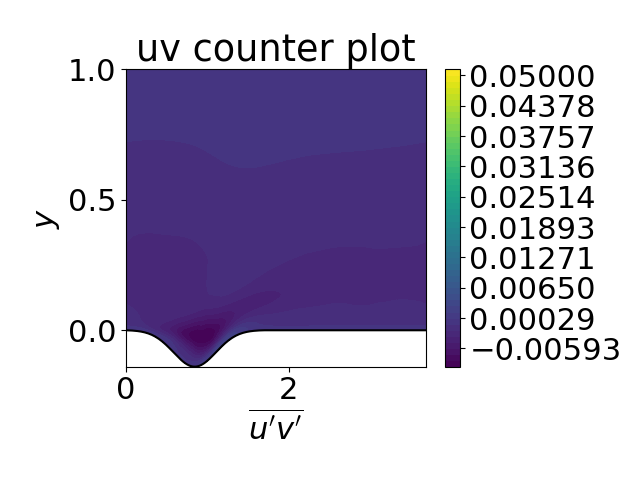
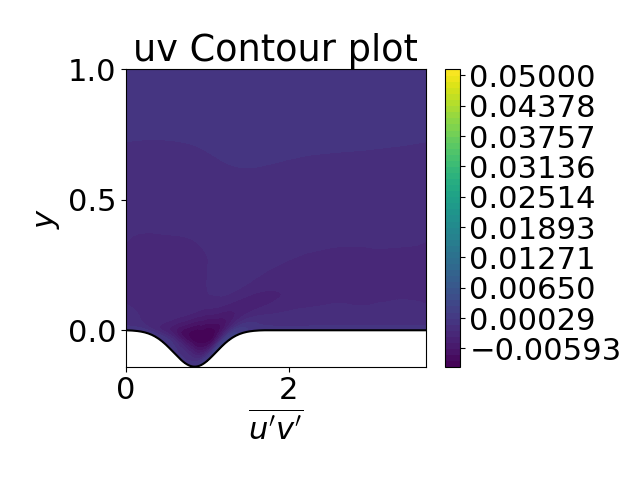
Final fix?

Changed region(s): [[0.1875, 0.0625, 0.6562, 0.1562]]

diff --git a/Final GUI.py b/Final GUI.py
@@ -141,7 +141,7 @@ def plot_pressure():
     plt.contourf(x2d,y2d,p2d, 50)
     plt.plot(x2d[:,0],y2d[:,0], 'k-')
     plt.xlabel("$x$"); plt.ylabel("$y$")
-    plt.title("contour pressure plot")
+    plt.title("Contour pressure plot")
     plt.colorbar()
     plt.tight_layout()
     plt.show() 
@@ -164,7 +164,7 @@ def plot_uu_stress():
     plt.plot(x2d[:,0],y2d[:,0], 'k-')
     plt.xlabel('$\overline{u^\prime u^\prime}$')
     plt.ylabel("$y$")
-    plt.title("uu counter plot")
+    plt.title("uu Contour plot")
     plt.colorbar()
     plt.tight_layout()
     plt.show() 
@@ -176,7 +176,7 @@ def plot_vv_stress():
     plt.plot(x2d[:,0],y2d[:,0], 'k-')
     plt.xlabel('$\overline{v^\prime v^\prime}$')
     plt.ylabel("$y$")
-    plt.title("vv counter plot")
+    plt.title("vv Contour plot")
     plt.colorbar()
     plt.tight_layout()
     plt.show() 
@@ -188,7 +188,7 @@ def plot_uv_Stress():
     plt.plot(x2d[:,0],y2d[:,0], 'k-')
     plt.xlabel('$\overline{u^\prime v^\prime}$')
     plt.ylabel("$y$")
-    plt.title("uv counter plot")
+    plt.title("uv Contour plot")
     plt.colorbar()
     plt.tight_layout()
     plt.show() 
@@ -203,7 +203,7 @@ def plot_1_close():
     plt.plot(uv2d[i,:],y2d[i,:],'r-', label='$\overline{u^\prime v^\prime}$')
     plt.plot(vv2d[i,:],y2d[i,:],'k-', label='$\overline{v^{\prime 2}}$')
     plt.xlabel('$\overline{u_i^\prime u_j^\prime}$')
-    plt.ylabel('y/H')
+    plt.ylabel('y')
     plt.title('1.1 (x = 0.10) vertical line', fontsize=20)
     plt.legend()
     plt.tight_layout()
@@ -217,7 +217,7 @@ def plot_1_turb():
     plt.plot(uv2d[i,:],y2d[i,:],'r-', label='$\overline{u^\prime v^\prime}$')
     plt.plot(vv2d[i,:],y2d[i,:],'k-', label='$\overline{v^{\prime 2}}$')
     plt.xlabel('$\overline{u_i^\prime u_j^\prime}$')
-    plt.ylabel('y/H')
+    plt.ylabel('y')
     plt.title('1.1 (x = 1.07) vertical line', fontsize=20)
     plt.legend()
     plt.tight_layout()
@@ -334,7 +334,7 @@ def plot_2_turb_x_zoom():
     plt.plot(-nu*du2dy2[i,:],y2d[i,:],'k-',label='6')
     plt.plot(duvdy[i,:],y2d[i,:],'c-',   label='7')
     plt.xlabel('Term size (Eq. R.1)')
-    plt.ylabel('y/H')
+    plt.ylabel('y')
     plt.title('1.2 $v_x$-direction (x = 1.07) vertical line', fontsize=20)
     plt.axis([-0.3, 0.25, np.min(y2d), 0.1])
     plt.legend()
@@ -352,7 +352,7 @@ def plot_2_turb_y_zoom():
     plt.plot(-nu*dv2dy2[i,:],y2d[i,:],'k-',label='6')
     plt.plot(dvvdy[i,:],y2d[i,:],'c-',   label='7')
     plt.xlabel('Term size $v_y$-direction (Eq. R.1)')
-    plt.ylabel('y/H')
+    plt.ylabel('y')
     plt.title('1.2 (x = 1.07) vertical line', fontsize=20)
     plt.axis([-0.45, 0.28, np.min(y2d), 0.1])
     plt.legend()
@@ -427,7 +427,7 @@ dp_norm = np.sqrt(np.multiply(dpdx,dpdx) + np.multiply(dpdy,dpdy))
     # Pressure
 def plot_4_pressure_grad():    
     plt.figure("Figure 1.4c")
-    k=10# plot every
+    k=12# plot every
     plt.quiver(x2d[::k,::k], y2d[::k,::k], -dpdx[::k,::k], -dpdy[::k,::k], width = 0.007)
     plt.plot(x2d[:,0],y2d[:,0], 'k-')
     plt.xlabel("$x$"); plt.ylabel("$y$")
@@ -458,24 +458,24 @@ def plot_4_Visc_D_y():
 # ---- A_1.5)
 
 # Production term
-P_k = np.zeros((ni,nj,6))
+P_k = np.zeros((ni,nj,7))
 
 P_k[:,:,0] = - np.multiply(uu2d,dudx)
 P_k[:,:,1] = - np.multiply(uv2d,dudy)
 P_k[:,:,2] = - np.multiply(uv2d,dvdx)
 P_k[:,:,3] = - np.multiply(vv2d,dvdy)
-P_k[:,:,4] = P_k[:,:,0] + P_k[:,:,1] + P_k[:,:,2] + P_k[:,:,3]
-P_k[:,:,5] = P_k[:,:,0] + P_k[:,:,3]
+P_k[:,:,4] = P_k[:,:,0] + P_k[:,:,3]
+P_k[:,:,5] = P_k[:,:,1] + P_k[:,:,2]
+P_k[:,:,6] = P_k[:,:,0] + P_k[:,:,1] + P_k[:,:,2] + P_k[:,:,3]
+
  
 # Close to inlet
 def plot_5_k_close():
     plt.figure("Figure 1.5a")
     i=5
-    plt.plot(P_k[i,:,0],y2d[i,:],'g-',label='$P_{11}$')
-    plt.plot(P_k[i,:,1],y2d[i,:],'b-',label='$P_{12}$')
-    plt.plot(P_k[i,:,2],y2d[i,:],'r-',label='$P_{21}$')
-    plt.plot(P_k[i,:,3],y2d[i,:],'y-',label='$P_{22}$')
-    plt.plot(P_k[i,:,4],y2d[i,:],'y-',label='Total')
+    plt.plot(P_k[i,:,4],y2d[i,:],'g-',label='$P_{normal}$')
+    plt.plot(P_k[i,:,5],y2d[i,:],'b-',label='$P_{shear}$')
+    plt.plot(P_k[i,:,6],y2d[i,:],'y-',label='Total')
     plt.xlabel('Turbulent Energy Production')
     plt.ylabel('y/H')
     plt.title('1.5) x = 0.10 vertical line', fontsize=20)
@@ -487,11 +487,9 @@ def plot_5_k_close():
 def plot_5_k_turb():
     plt.figure("Figure 1.5b")
     i=50
-    plt.plot(P_k[i,:,0],y2d[i,:],'g-',label='$P_{11}$')
-    plt.plot(P_k[i,:,1],y2d[i,:],'b-',label='$P_{12}$')
-    plt.plot(P_k[i,:,2],y2d[i,:],'r-',label='$P_{21}$')
-    plt.plot(P_k[i,:,3],y2d[i,:],'y-',label='$P_{22}$')
-    plt.plot(P_k[i,:,4],y2d[i,:],'k-',label='Total')
+    plt.plot(P_k[i,:,4],y2d[i,:],'g-',label='$P_{normal}$')
+    plt.plot(P_k[i,:,5],y2d[i,:],'b-',label='$P_{shear}$')
+    plt.plot(P_k[i,:,6],y2d[i,:],'y-',label='Total')
     plt.xlabel('Turbulent Energy Production')
     plt.ylabel('y/H')
     plt.title('1.5) x = 1.07 vertical line', fontsize=20)
@@ -505,7 +503,7 @@ def plot_5_k_turb():
 def plot_6_prod_close():    
     plt.figure("Figure 1.6a")
     i=5
-    plt.plot(P_k[i,:,4],y2d[i,:],'y-',label='Production')
+    plt.plot(P_k[i,:,6],y2d[i,:],'y-',label='Production')
     plt.plot(diss_RANS_2d[i,:],y2d[i,:],'k-',label='Dissipation')
     plt.xlabel('Turbulent Energy')
     plt.ylabel('y')
@@ -518,7 +516,7 @@ def plot_6_prod_close():
 def plot_6_prod_turb():    
     plt.figure("Figure 1.6b")
     i=50
-    plt.plot(P_k[i,:,4],y2d[i,:],'y-',label='Production')
+    plt.plot(P_k[i,:,6],y2d[i,:],'y-',label='Production')
     plt.plot(diss_RANS_2d[i,:],y2d[i,:],'k-',label='Dissipation')
     plt.xlabel('Turbulent Energy')
     plt.ylabel('y')
@@ -528,8 +526,9 @@ def plot_6_prod_turb():
     plt.tight_layout()
 
 # ---- A_1.7)
-i=50
+i=5
 Cmu = 0.09; C1 = 1.5; C2 = 0.6; C1w = 0.5; C2w = 0.3; sigma_k = 1; rho = 1;
+nu_t = Cmu*np.divide(np.multiply(k_RANS_2d, k_RANS_2d), diss_RANS_2d)
 
 # Convection Term
 # 11
@@ -571,35 +570,35 @@ P22 = -2*(np.multiply(uv2d, dvdx) + np.multiply(vv2d, dvdy))
 
 # Pressure-Strain
 ## 11
-Phi121 = -C1*rho*np.multiply(np.divide(diss_RANS_2d,k_RANS_2d), uu2d-(2/3)*k_RANS_2d)
+Phi111 = -C1*rho*np.multiply(np.divide(diss_RANS_2d,k_RANS_2d), uu2d-(2/3)*k_RANS_2d)
 #
-Phi122 = -C2*rho*(P11-(2/3)*P_k[i,:,5])
+Phi112 = -C2*rho*(P11-(2/3)*P_k[i,:,6])
 
 ## 12
-Phi111 = -C1*rho*np.multiply(np.divide(diss_RANS_2d,k_RANS_2d), uv2d)
+Phi121 = -C1*rho*np.multiply(np.divide(diss_RANS_2d,k_RANS_2d), uv2d)
 #
-Phi112 = -C2*rho*P12
+Phi122 = -C2*rho*P12
 
 ## 22
 Phi221 = -C1*rho*np.multiply(np.divide(diss_RANS_2d,k_RANS_2d), vv2d-(2/3)*k_RANS_2d)
 #
-Phi222 = -C2*rho*(P22-(2/3)*P_k[i,:,5])
+Phi222 = -C2*rho*(P22-(2/3)*P_k[i,:,6])
 
 Phi11  = Phi111 + Phi112
 Phi12  = Phi121 + Phi122
 Phi22  = Phi221 + Phi222
 
 ## Turbulent Diffusion
-nu_t = Cmu*np.divide(np.multiply(k_RANS_2d, k_RANS_2d), diss_RANS_2d)
+
 # 11 
-D111, empty = dphidx_dy(xf2d,yf2d, np.multiply(vist_RANS_2d/sigma_k, duudx))
-empty, D112 = dphidx_dy(xf2d,yf2d, np.multiply(vist_RANS_2d/sigma_k, duudy))
+D111, empty = dphidx_dy(xf2d,yf2d, np.multiply(nu_t/sigma_k, duudx))
+empty, D112 = dphidx_dy(xf2d,yf2d, np.multiply(nu_t/sigma_k, duudy))
 # 12
-D121, empty = dphidx_dy(xf2d,yf2d, np.multiply(vist_RANS_2d/sigma_k, duvdx))
-empty, D122 = dphidx_dy(xf2d,yf2d, np.multiply(vist_RANS_2d/sigma_k, duvdy))
+D121, empty = dphidx_dy(xf2d,yf2d, np.multiply(nu_t/sigma_k, duvdx))
+empty, D122 = dphidx_dy(xf2d,yf2d, np.multiply(nu_t/sigma_k, duvdy))
 # 22 
-D221, empty = dphidx_dy(xf2d,yf2d, np.multiply(vist_RANS_2d/sigma_k, dvvdx))
-empty, D222 = dphidx_dy(xf2d,yf2d, np.multiply(vist_RANS_2d/sigma_k, dvvdy))
+D221, empty = dphidx_dy(xf2d,yf2d, np.multiply(nu_t/sigma_k, dvvdx))
+empty, D222 = dphidx_dy(xf2d,yf2d, np.multiply(nu_t/sigma_k, dvvdy))
 
 D11t = D111 + D112
 D12t = D121 + D122
@@ -617,20 +616,20 @@ Eps22 = (2/3)*diss_RANS_2d
 
 ## west face
 # parallell vector
-sx_w=np.diff(x2d,axis=1) 
-sy_w=np.diff(y2d,axis=1) 
+sx_w=np.diff(x2d,axis=0) 
+sy_w=np.diff(y2d,axis=0) 
    
-# duplicate last column and put it at the end
-sx_w=np.insert(sx_w,-1,sx_w[:,-1],axis=1)
-sy_w=np.insert(sy_w,-1,sy_w[:,-1],axis=1)
+# duplicate first column and put it at the start, so west face is east face instead
+sx_w=np.insert(sx_w,0,sx_w[0,:],axis=0)
+sy_w=np.insert(sy_w,0,sy_w[0,:],axis=0)
 
 # normalize
-d=np.sqrt(sx_w**2+sy_w**2)
-nx_w=sy_w/d # approx. west face as east (small CV) TODO: fix afterwards
-ny_w=-sx_w/d
+d=np.sqrt(np.multiply(sx_w,sx_w)+np.multiply(sy_w,sy_w))
+nx_w=-sy_w/d # approx. west face as east (small CV) TODO: fix afterwards, see above
+ny_w=sx_w/d
 
 # normalvector products
-n1n1 = np.multiply(nx_w, nx_w)
+n1n1 = np.multiply(nx_w, nx_w) 
 n1n2 = np.multiply(nx_w, ny_w)
 n2n2 = np.multiply(ny_w, ny_w)
 
@@ -641,16 +640,16 @@ K2 = C2w*f
 
 Phi111W = K1*( - 2*np.multiply(uu2d,n1n1) - np.multiply(uv2d,n1n2) + np.multiply(vv2d,n2n2))
 Phi112W = K2*( - 2*np.multiply(Phi112, n1n1) - np.multiply(Phi122, n1n2) + np.multiply(Phi222,n2n2))
-Phi121W = -1.5*K1*(2*np.multiply(k_RANS_2d, n1n1) + np.multiply(uv2d, n1n1 + n2n2))
+Phi121W = -1.5*K1*(np.multiply(uu2d + vv2d, n1n2) + np.multiply(uv2d, n1n1 + n2n2))
 Phi122W = -1.5*K2*(np.multiply(n1n2, Phi112 + Phi222) + np.multiply(Phi122, n1n1+n2n2))
 
-#Phi11  += Phi111W + Phi112W
-#Phi12  += Phi121W + Phi122W
+Phi11W  = Phi111W + Phi112W
+Phi12W  = Phi121W + Phi122W
 
 # Total
 
-Total_Stress11 = -C11 + D11v + P11 + Phi11 + D11t - Eps11
-Total_Stress12 = -C12 + D12v + P12 + Phi12 + D12t - Eps12
+Total_Stress11 = -C11 + D11v + P11 + Phi11 + Phi11W + D11t - Eps11
+Total_Stress12 = -C12 + D12v + P12 + Phi12 + Phi12W + D12t - Eps12
 Total_Stress22 = -C22 + D22v + P22 + Phi22 + D22t - Eps22
     
     # Plot Close to inlet 11
@@ -660,10 +659,11 @@ def plot_7_close_11():
     plt.plot(-C11[i,:],y2d[i,:],'b-',   label='1')
     plt.plot(D11v[i,:],y2d[i,:],'g-',   label='2')
     plt.plot(P11[i,:],y2d[i,:],'r-',    label='3')
-    plt.plot(Phi11[i,:],y2d[i,:],'y-',label='4')
+    plt.plot(Phi11[i,:],y2d[i,:],'y-',label='4a')
+    plt.plot(Phi11W[i,:],y2d[i,:],'c-',label='4b')
     plt.plot(D11t[i,:],y2d[i,:],'m-',   label='5')
     plt.plot(-Eps11[i,:],y2d[i,:],'k-',label='6')
-    plt.plot(Total_Stress11[i,:],y2d[i,:],'c-',label='7')
+    plt.plot(Total_Stress11[i,:],y2d[i,:],'k--',label='7')
     plt.xlabel('Reynold Stress terms 11')
     plt.ylabel('y')
     plt.title('1.7 (x = 0.10) vertical line', fontsize=20)
@@ -678,14 +678,15 @@ def plot_7_close_12():
     plt.plot(-C12[i,:],y2d[i,:],'b-',   label='1')
     plt.plot(D12v[i,:],y2d[i,:],'g-',   label='2')
     plt.plot(P12[i,:],y2d[i,:],'r-',    label='3')
-    plt.plot(Phi12[i,:],y2d[i,:],'y-',label='4')
+    plt.plot(Phi12[i,:],y2d[i,:],'y-',label='4a')
+    plt.plot(Phi12W[i,:],y2d[i,:],'c-',label='4b')    
     plt.plot(D12t[i,:],y2d[i,:],'m-',   label='5')
     plt.plot(-Eps12[i,:],y2d[i,:],'k-',label='6')
-    plt.plot(Total_Stress12[i,:],y2d[i,:],'c-',label='7')
+    plt.plot(Total_Stress12[i,:],y2d[i,:],'k--',label='7')
     plt.xlabel('Reynold Stress Terms 12')
     plt.ylabel('y')
     plt.title('1.7 (x = 0.10) vertical line', fontsize=20)
-    plt.axis([-0.06, 0.06, 0, 1])
+    plt.axis([-0.01, 0.01, 0, 1])
     plt.legend()
     plt.tight_layout()
     
@@ -705,6 +706,19 @@ def plot_7_close_22():
     plt.title('1.7 (x = 0.10) vertical line', fontsize=20)
     plt.axis([-0.01, 0.02, 0, 1])
     plt.legend()
+    plt.tight_layout()
+    
+def Check_Plot():
+    plt.figure("check")
+    k=2
+    i=0
+    plt.quiver(x2d[::k,i], y2d[::k,i], nx_w[::k,i], ny_w[::k,i], width=0.005)
+    plt.plot(x2d[:,0],y2d[:,0], 'k-')    
+    #plt.contourf(x2d,y2d, d, 50)
+    plt.xlabel('$x$')
+    plt.ylabel("$y$")
+    plt.title("d")
+    #plt.colorbar()
     plt.tight_layout()
 
 # ---- A_1.8)
@@ -774,7 +788,7 @@ P_tot = P11 + P22
     
 def plot_9a():
     plt.figure("Figure 1.9a")
-    plt.contourf(x2d,y2d, P_tot, 50)
+    plt.contourf(x2d,y2d, P_k[:,:,4], 50)
     plt.xlabel("$x$"); plt.ylabel("$y$")
     plt.title("Production")
     plt.colorbar()
@@ -788,7 +802,7 @@ def plot_9b():
     
 def plot_9c():    
     plt.figure("Figure 1.9c")
-    plt.contourf(x2d,y2d, P_tot, 50, levels = np.linspace(np.min(P_tot),0,50))
+    plt.contourf(x2d,y2d, P_k[:,:,6], 50, levels = np.linspace(np.min(P_k[:,:,6]),0,50))
     plt.plot(x2d[:,0],y2d[:,0], 'k-')
     plt.xlabel("$x$"); plt.ylabel("$y$")
     plt.title("Negative Production")
@@ -987,6 +1001,9 @@ button27.grid(row=2, column=8, sticky='nesw')
 
 button28 = tk.Button(root, text='Stress 22', command = plot_7_close_22)
 button28.grid(row=3, column=8, sticky='nesw')
+
+buttoncheck = tk.Button(root, text='Check Plot', command = Check_Plot)
+buttoncheck.grid(row=4, column=8, sticky='nesw')
 
 # 1.8
 
